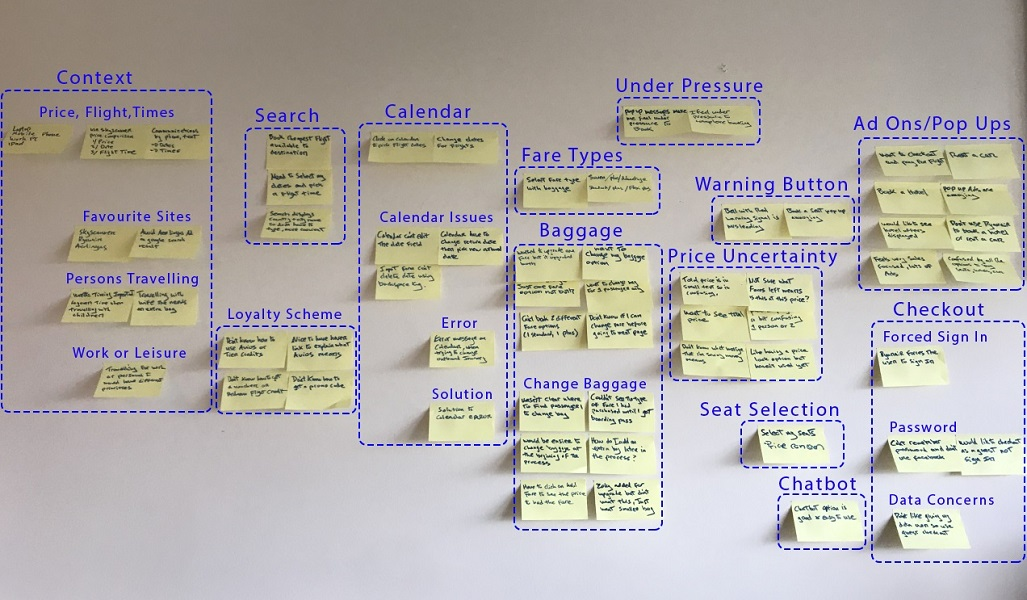
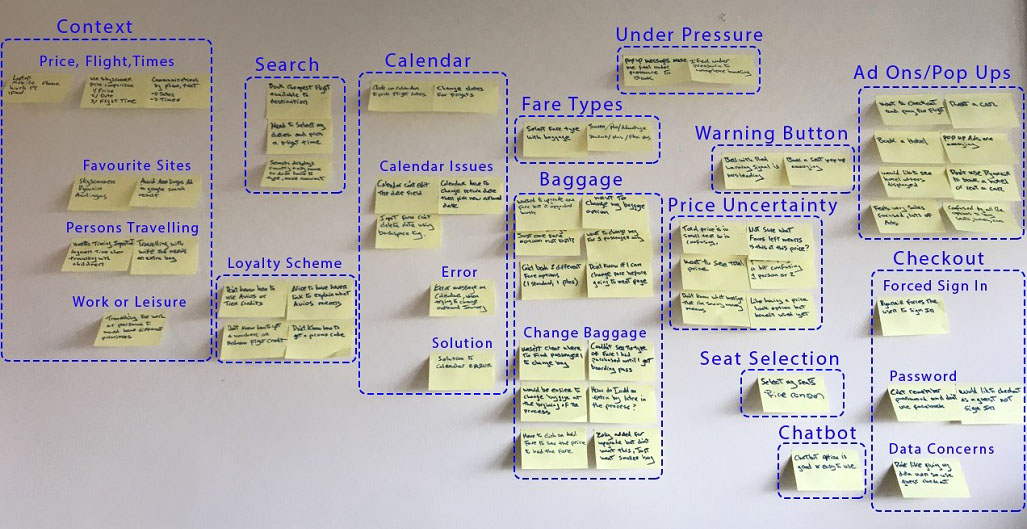
fixing images in fly UX

diff --git a/portfolio/ux.html b/portfolio/ux.html
@@ -105,10 +105,10 @@
 	      <p class="portfolio-detail-body">
 	       The prototype was created following the UX design process including:
 	       <ul class="portfolio-detail-body">
-	           <li>Phase 1 - Usability Testing, Depth Interviews, Competitor Analysis, Online Surveys.</li>
-	           <li>Phase 2 - Affinity Map, Customer Journey Diagram, Insight Generation.</li>
-	           <li>Phase 3 - Desktop Flow Diagram, Define Navigation, Desktop Interaction Design.</li>
-	           <li>Phase 4 - Wireframes & Prototype Build.</li>
+	           <li>User Research - Usability Testing, Depth Interviews, Competitor Analysis, Online Surveys.</li>
+	           <li>Analysis & Planning - Affinity Map, Customer Journey Diagram, Insight Generation.</li>
+	           <li>Design - Desktop Flow Diagram, Define Navigation, Desktop Interaction Design.</li>
+	           <li>Prototyping - Wireframes & Prototype Build.</li>
 	       </ul>
 	       </p>
 	       <p class="portfolio-detail-body">
@@ -141,10 +141,9 @@
 	   </div>
 	   
  <div class="row">
-<div class="col-xs-11  col-xs-offset-1">
+
                  
- <h1 class="blue-hex"><b>Usability Testing</b></h1>
- </div> 
+
 
 <div class="col-xs-11 col-xs-offset-1">
 
@@ -156,7 +155,7 @@
  usability tests using two different test subjects on the Aer Lingus and Ryanair websites.</p>
  
 
- <h2><b>Test Objectives:</b></h2>
+ <h3>Test Objectives:</h3>
  <ol class="portfolio-detail-body">
   <li>Identify typical user behaviour on the Aer Lingus & Ryanair websites when booking a flight.</li>
   <li>Discover the primary goals of the user.</li>
@@ -166,70 +165,34 @@
   <li>Identify features and areas on the website that could be improved for better UX.</li>
 </ol>
  </p>
- <h3 class="table-padding"><b>Usability Testing Screenshots</b></h3>
+ 
+  <p class="portfolio-detail-body">
+       A competitor analysis was then undertaken. I reviewed four websites to identify what best in class competitor
+       websites were currently doing well. I wanted to gain more insight into
+       how these websites were solving problems that users face when booking flights, 
+       understand current conventions that should be followed and highlight 
+       best practice being used.</p>
+       
+       
+        <p class="portfolio-detail-body">
+        A survey was conducted using Survey Monkey to gather more qualitative and quantitative attitudinal
+        research to gain more understanding into context of use.
+        I used a mixture of open and closed questions as well as some
+        multiple choice questions. In keeping with good practice the survey contained no more
+        than 10 questions and would take around 2-3 minutes for people to complete.</p>
+       
  </div> 
  </div> <!-- close row -->
  
  
 
-  <div class="row text-center">
-      
-  <div class="col-xs-11 col-xs-offset-1 col-sm-5 col-md-5 ">
-      <h3>Ryanair</h3>
-       <img src="../assets/images/test1.jpg" style="background-color:#FFF; border:1px solid grey" class="img-responsive" alt="usability_test1"> </div>
-      
-    <div class="col-xs-11 col-xs-offset-1   col-sm-5 col-md-5 image-padding">
-          <h3>Aer Lingus</h3>
-        <img src="../assets/images/test2.jpg" style="background-color:#FFF; border:1px solid grey" class="img-responsive" alt="usability_test2"></div>
-    </div> <!-- close row -->
   
 
-   <div class="row">
-   <div class="col-xs-11 col-xs-offset-1">
-   
-
-  <h1 class="blue-hex"><b>Competitor Analysis</b></h1>
-    <p class="portfolio-detail-body">
-       I reviewed four websites to identify what best in class competitor
-       websites were currently doing well. I wanted to gain more insight into
-       how these websites were solving problems that users face when booking flights, 
-       understand current conventions that should be followed and highlight 
-       best practice being used.</p>
-       </div>
-  </div> <!-- close row -->
-  
-    
-    
-<!--  <div class="container competitor-group"> -->
-  <div class="row text-center">
-    
-       <div class="col-xs-11 col-xs-offset-1 col-sm-5  col-md-5"><img src="../assets/images/Competitive3.jpg" style="background-color:#FFF; border:1px solid grey" class="img-responsive " alt="competitor3"></div>
-      <div class="col-xs-11 col-xs-offset-1 col-sm-5  col-md-5"><img src="../assets/images/Competitive4.jpg" style="background-color:#FFF; border:1px solid grey" class="img-responsive" alt="competitor4"></div>
-       </div> <!-- close row -->
-       
-       
-     <div class="row text-center table-top-padding">
-     <div class="col-xs-11 col-xs-offset-1 col-sm-5  col-md-5"><img src="../assets/images/Competitive2.jpg" style="background-color:#FFF;border:1px solid grey" class="img-responsive" alt="competitor2"></div>
-     <div class="col-xs-11 col-xs-offset-1 col-sm-5  col-md-5 image-padding"><img src="../assets/images/Competitive1.jpg" style="background-color:#FFF;border:1px solid grey" class="img-responsive" alt="competitor1"></div>
-    </div> <!-- close row -->
  
-   
+    
+    
 
-   
-   <div class= "row">
-   <div class="col-xs-11 col-xs-offset-1">
-    <h1 class="blue-hex"><b>Online Survey</b></h1>
-    <p class="portfolio-detail-body">
-        I created an online survey using Survey Monkey to gather more qualitative and quantitative attitudinal
-        research to gain more understanding into context of use.
-        I used a mixture of open and closed questions as well as some
-        multiple choice questions. In keeping with good practice the survey contained no more
-        than 10 questions and would take around 2-3 minutes for people to complete.</p>
-      
- <img src="../assets/images/survey.jpg" style="background-color:#FFF; border:1px solid grey" class="img-responsive" alt="Survey">
-
-</div>
-</div> <!-- close row -->
+ 
 
 
  <div class="row">
@@ -255,10 +218,10 @@
 <div class="row">
    <div class="col-xs-11 col-xs-offset-1">
   <h1 class="blue-hex"><b>Affinity Map</b></h1>
- <p class="portfolio-detail-body">I reviewed the usability tests and recorded notes on the test sessions.
+ <p class="portfolio-detail-body">The usability tests were reviewed and the recorded notes on the test sessions were examined.
  I then wrote down every important point that was mentioned onto separate post-it notes.
  The depth interview, competitor analysis and data gathered from the online survey was also reviewed
- and post-it notes were developed from this research also. The notes were then stuck onto a whiteboard
+ and post-it notes were developed from this research also. The notes were stuck onto a whiteboard
  and organised into categories. These categories were used to create the Affinity Map as shown below. </p>
  </p>
  </div>
@@ -267,8 +230,8 @@
 
 <!-- <div class="container flow-group"> -->
   <div class="row text-center">
-       <div class="col-xs-11 col-xs-offset-1  image-padding"><img src="../assets/images/affinityworking.jpg" style="background-color:#FFF; border:1px solid grey" class="img-responsive " alt="flowsketch"></div>
-      <div class="col-xs-11 col-xs-offset-1  image-padding"><img src="../assets/images/Affinitydiagram.jpg" style="background-color:#FFF; border:1px solid grey" class="img-responsive" alt="flowdiagram"></div>
+      
+      <div class="col-xs-11 col-xs-offset-1   image-padding"><img src="../assets/images/Affinitydiagram.jpg" style="background-color:#FFF; border:1px solid grey" class="img-responsive" alt="flowdiagram"></div>
     </div> <!-- close row -->
    
  
@@ -372,22 +335,12 @@
  <!--  <div class="container nav-group"> -->
   <div class="row">
       
-       <div class="col-xs-11 col-xs-offset-1 col-md-5 col-sm-5">
-           <h3>Flight Search</h3>
-           <img src="../assets/images/uxnav1.jpg" style="background-color:#FFF; border:1px solid grey" class="img-responsive " alt="flowsketch">
+       <div class="col-xs-11 col-xs-offset-1 ">
+        
+           <img src="../assets/images/ux_interaction_design.png" style="background-color:#FFF;" class="img-responsive " alt="flowsketch">
            </div>
     
-      <div class="col-xs-11 col-xs-offset-1 col-md-5 col-sm-5 image-padding ">
-           <h3>Ad Ons & Checkout</h3>
-          <img src="../assets/images/uxnav2.jpg" style="background-color:#FFF; border:1px solid grey" class="img-responsive" alt="flowdiagram"></div>
-   </div> <!-- close row -->  
-    
-      <div class="row">
-        
-       <div class="col-xs-11 col-xs-offset-1 col-md-5 col-sm-5 image-padding">
-            <h3>Booking & Payment</h3>
-           <img src="../assets/images/uxnav3.jpg" style="background-color:#FFF; border:1px solid grey" class="img-responsive" alt="flowdiagram"></div>
-   
+      
     </div> <!-- close row -->
  
    
@@ -1011,7 +964,7 @@ Confirmation message will be displayed to the user along with the message that a
 	           </div>
 	      <div class="col-xs-10">
 	     <h1 class="blue-hex number-heading number-header-padding">
-	         <b>Prototype & Annotated Wireframes</b></h1>
+	         <b>Prototype & Final Wireframes</b></h1>
 	   </div>
 	   </div>
 	   
@@ -1153,7 +1106,7 @@ Confirmation message will be displayed to the user along with the message that a
 	      Translating any frustrations or pain points into wireframe designs that would improve on existing flight booking websites 
 	      involved a number of iterations of sketching and planning of the final design. 
 	 
-	     The next step in the process would be to test the prototype and refine the design based on these user tests.
+	
 	 
 	         </p>
 	         </div>
@@ -1181,7 +1134,37 @@ Confirmation message will be displayed to the user along with the message that a
 	         </div><!-- close row -->
  
  
- 
+  <div class="row">
+	         <div class="col-xs-11 col-xs-offset-1">
+	         <h1 class="green-hex"><b>What can I improve on?</b></h1>
+	         </div>
+	          <div class="col-xs-11 col-xs-offset-1">
+	          <p class="portfolio-detail-body">
+	              User testing of the high fidelity prototype would need to be incorporated into the design process and feedback from 
+	              end users would then lead to further iterations before the final wireframes are annotated and handed off to the 
+	              development team.
+	           </p>
+	         </div>
+	         </div> 
+	         
+	         <div class="row">
+	             <div class="col-xs-11 col-xs-offset-1">
+	             <H3>Skills:</H3>
+	             <p class="portfolio-detail-body">
+	                 
+	                 User Testing
+	             	 
+	        
+	             <H3>Processes:</H3>
+	             <p class="portfolio-detail-body">
+	           
+	                     Design iteration & testing.
+	               <H3>Learnings:</H3>
+	             <p class="portfolio-detail-body">
+	       
+	              User centered design process should always include continued testing and feedback from end users.
+	             </div>
+	         </div>
  
  
  

diff --git a/portfolio/oneday.html b/portfolio/oneday.html
@@ -472,8 +472,9 @@ to listen to a sleepcast before I go to bed”
 	          <div class="col-xs-11 col-xs-offset-1">
 	          <p class="portfolio-detail-body">
 			 Early research into existing apps as well as 
-	        studying UI elelments that related to iOS and Android also helped in the design of the wireframes. The usability tests 
-	        also yielded some constructive feedback that I was able to use to improve the final screens.
+	        studying UI elelments that related to iOS and Android helped in the design of the wireframes.
+	        The usability tests 
+	        yielded some constructive feedback that I was able to use to improve the final screens.
 	         </p>
 	         </div>
 	         </div> <!--close row -->
@@ -492,13 +493,13 @@ to listen to a sleepcast before I go to bed”
 	             <H3>Processes:</H3>
 	             <p class="portfolio-detail-body">
 	                
-	                     User centered design
+	                     User centered design.
 	                  
 	             
 	             <H3>Learnings:</H3>
 	             <p class="portfolio-detail-body">
 	                
-	                    Research design sites and guidelines online,
+	                    Research design sites and guidelines online.
 	              	 	Engage with end users for design feedback.
 	               
 	             </div>
@@ -548,9 +549,13 @@ to listen to a sleepcast before I go to bed”
 	          <div class="col-xs-11 col-xs-offset-1">
 	          <p class="portfolio-detail-body">
 	          	I was inspired for this project by existing apps such as 'Calm' which informed a lot of my design choices. 
-	          	In future I would like to develop an app that would be a bit more unique in tems of style and design.
-	          	I feel that I am becoming more confident with design choices so would expect this will come from additional experience
-	          	with app designs.
+	          	In future I would like to develop screens that are a bit more unique and different to existing products.
+	          	
+	          	I feel that I am becoming more confident with my design choices so expect this will come with additional experience.
+	          	
+	          	
+	          	
+	          
 	        
 	         </p>
 	         </div>
@@ -561,17 +566,17 @@ to listen to a sleepcast before I go to bed”
 	             <H3>Skills:</H3>
 	             <p class="portfolio-detail-body">
 	                 
-	                     Wireframing,
-	             	   Reviewing & Critiquing.
+	                    Sketching,  Wireframing.
+	             	 
 	        
 	             <H3>Processes:</H3>
 	             <p class="portfolio-detail-body">
 	           
-	                     Design iteration and testing.
+	                     Design iteration & sketching.
 	               <H3>Learnings:</H3>
 	             <p class="portfolio-detail-body">
 	       
-	                  More user testing and redesign if needed throughout wireframe development.
+	               Keep updated on latest trends and design styles, experiment with sketching and wireframe creation.
 	             </div>
 	         </div>
  

diff --git a/portfolio/jiggle.html b/portfolio/jiggle.html
@@ -351,14 +351,21 @@ The slightly off white colour is used to give the project a clean fresh look whe
 	           </div>
 	        <div class="col-xs-10 col-sm-10 col-md-10">
 	           <h1 class="orange-hex number-heading number-header-padding">
-	         <b>Style Guide</b></h1>
+	         <b>Style Guide & Export</b></h1>
 	         </div>
 	         
 	         <div class="col-xs-11 col-xs-offset-1">
 	             <p class="portfolio-detail-body">
 	             	A style guide was created to document the typography to be used for the app as well as the UI components that
 	             	were developed such as the buttons, Icons and navigation elements. 
-	             	
+	             
+                </p>
+                
+                <p class="portfolio-detail-body">
+	             The final step was to export the design assets in appropriate formats. Any image files in the design were exported them as PNG files in 1x, @2x, and @3x resolution.
+	             Each icon was exported as SVG files and each Artboard was exported as 1x PNG.
+	             All exported assets were combined and compressed into a single file ready for handover to the development team. 
+	          
 	             
                 </p>
                 </div>
